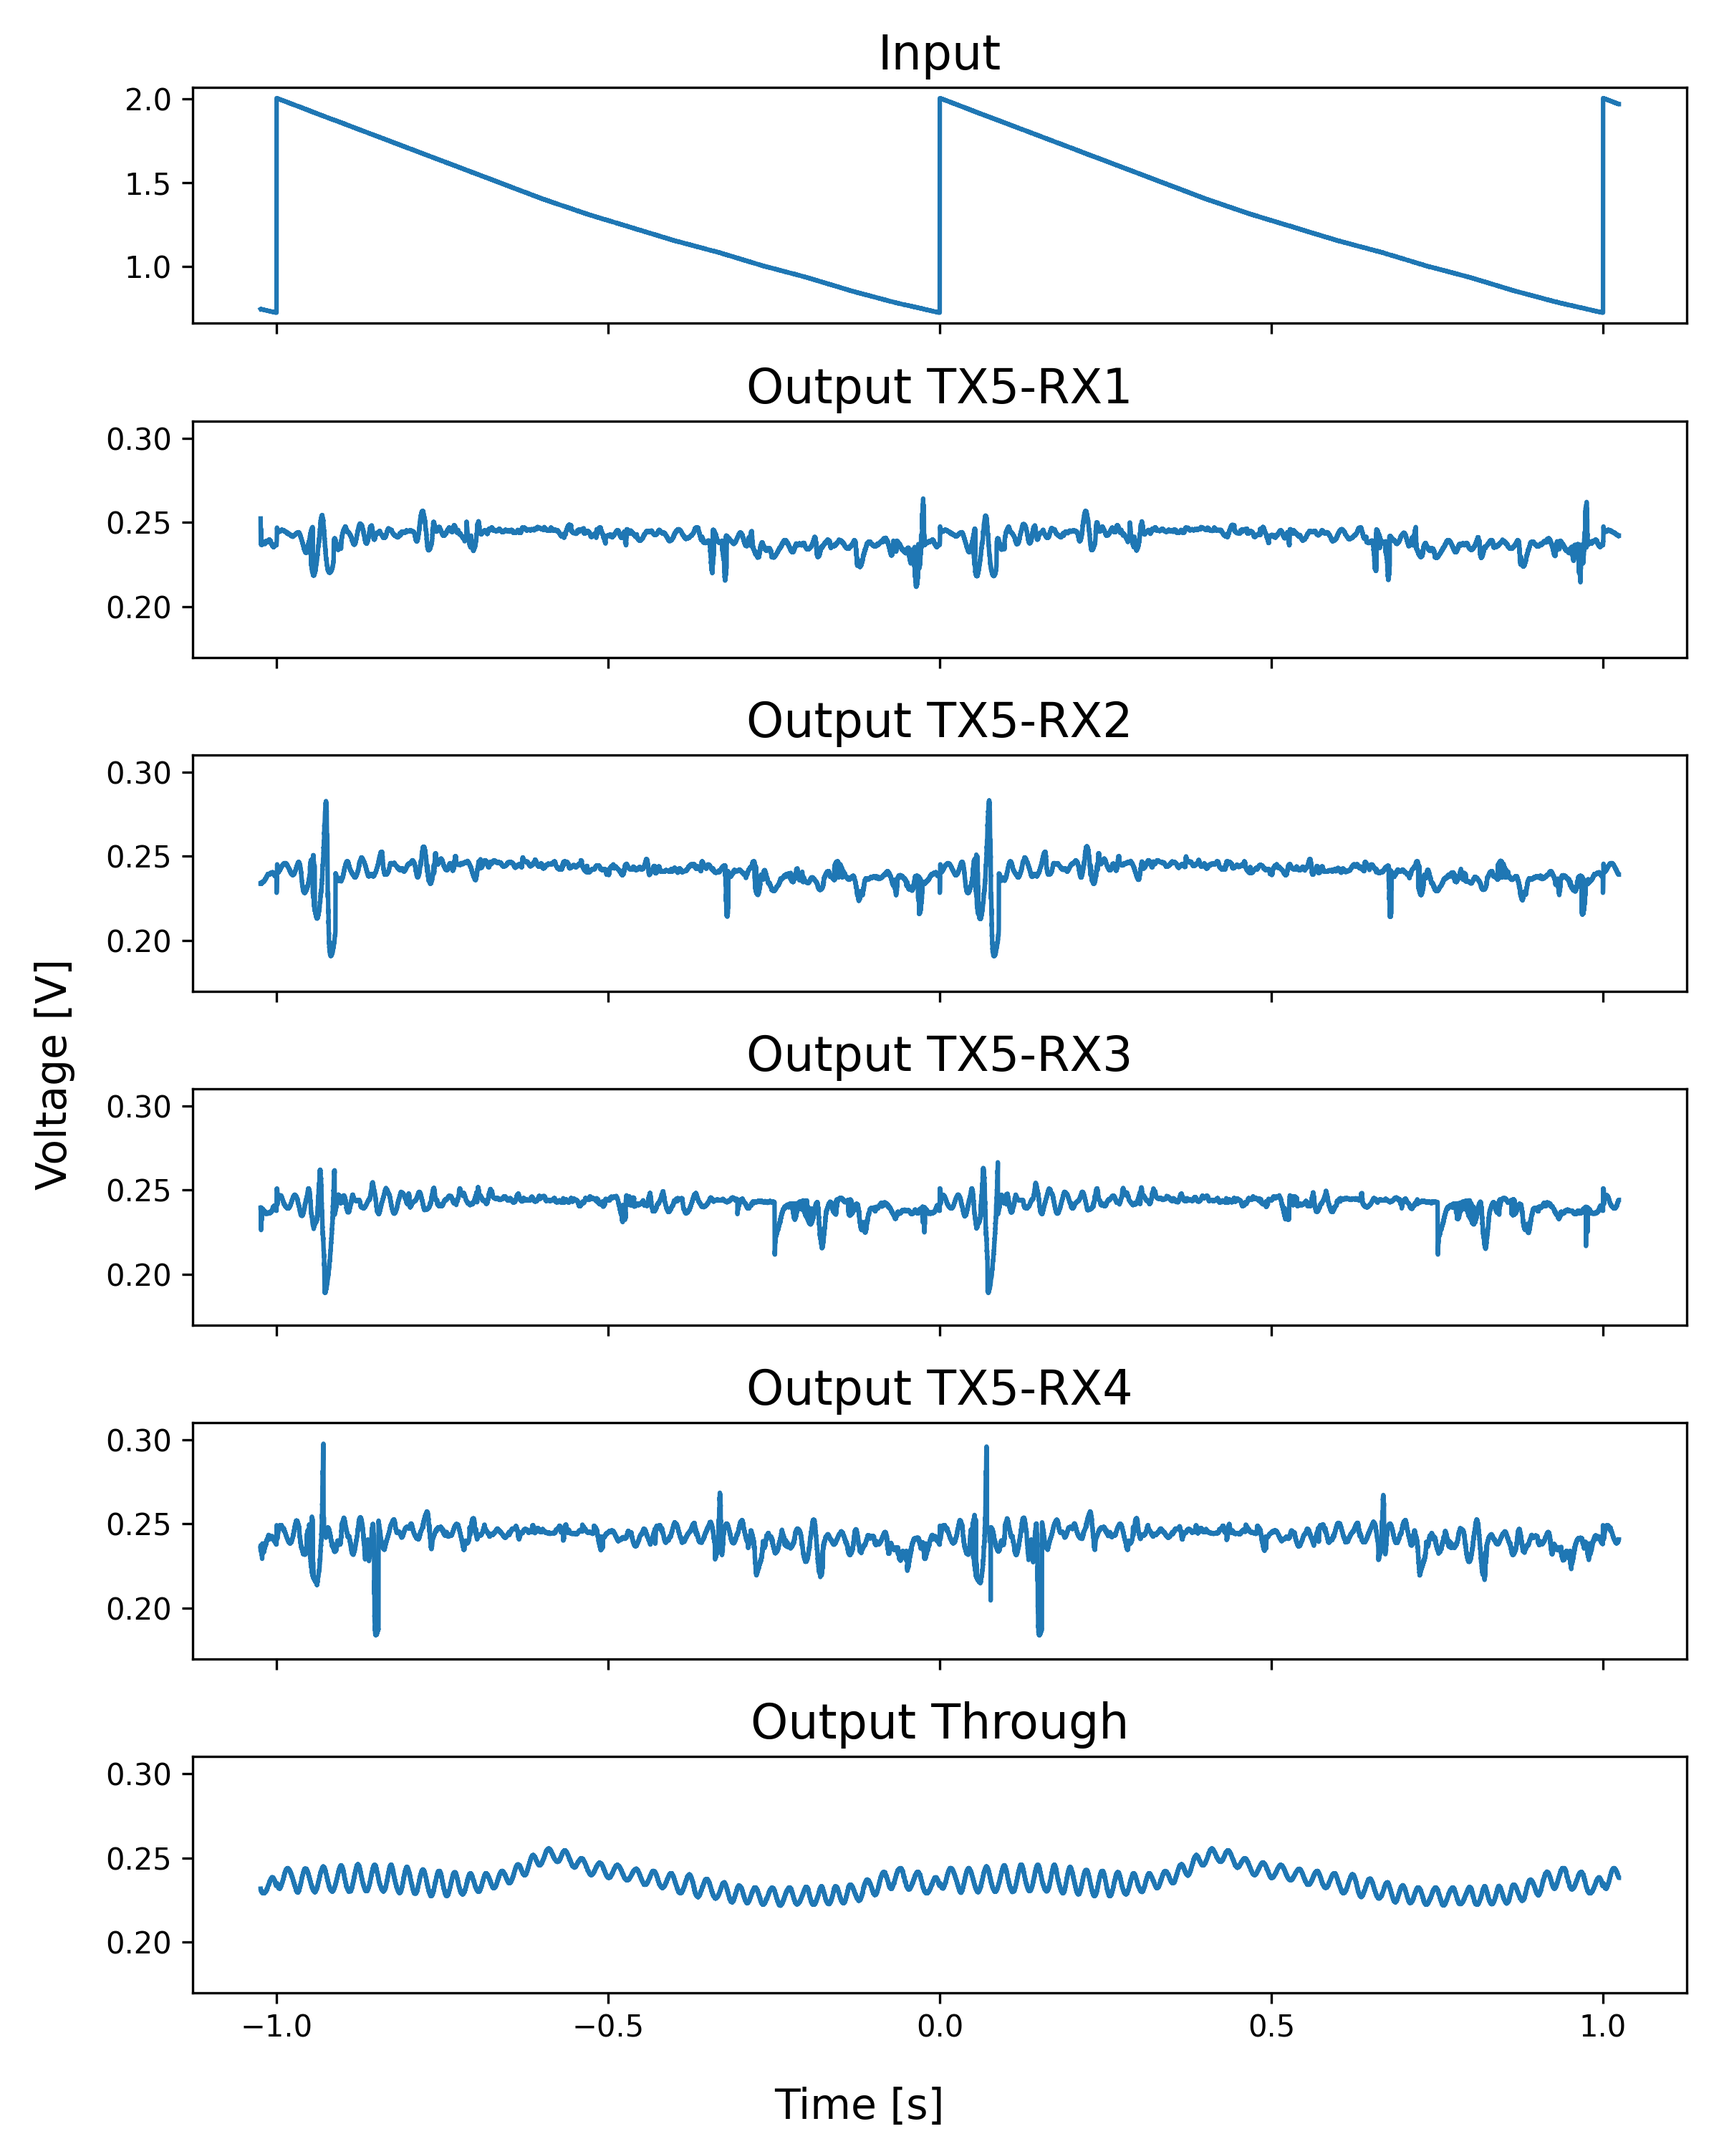
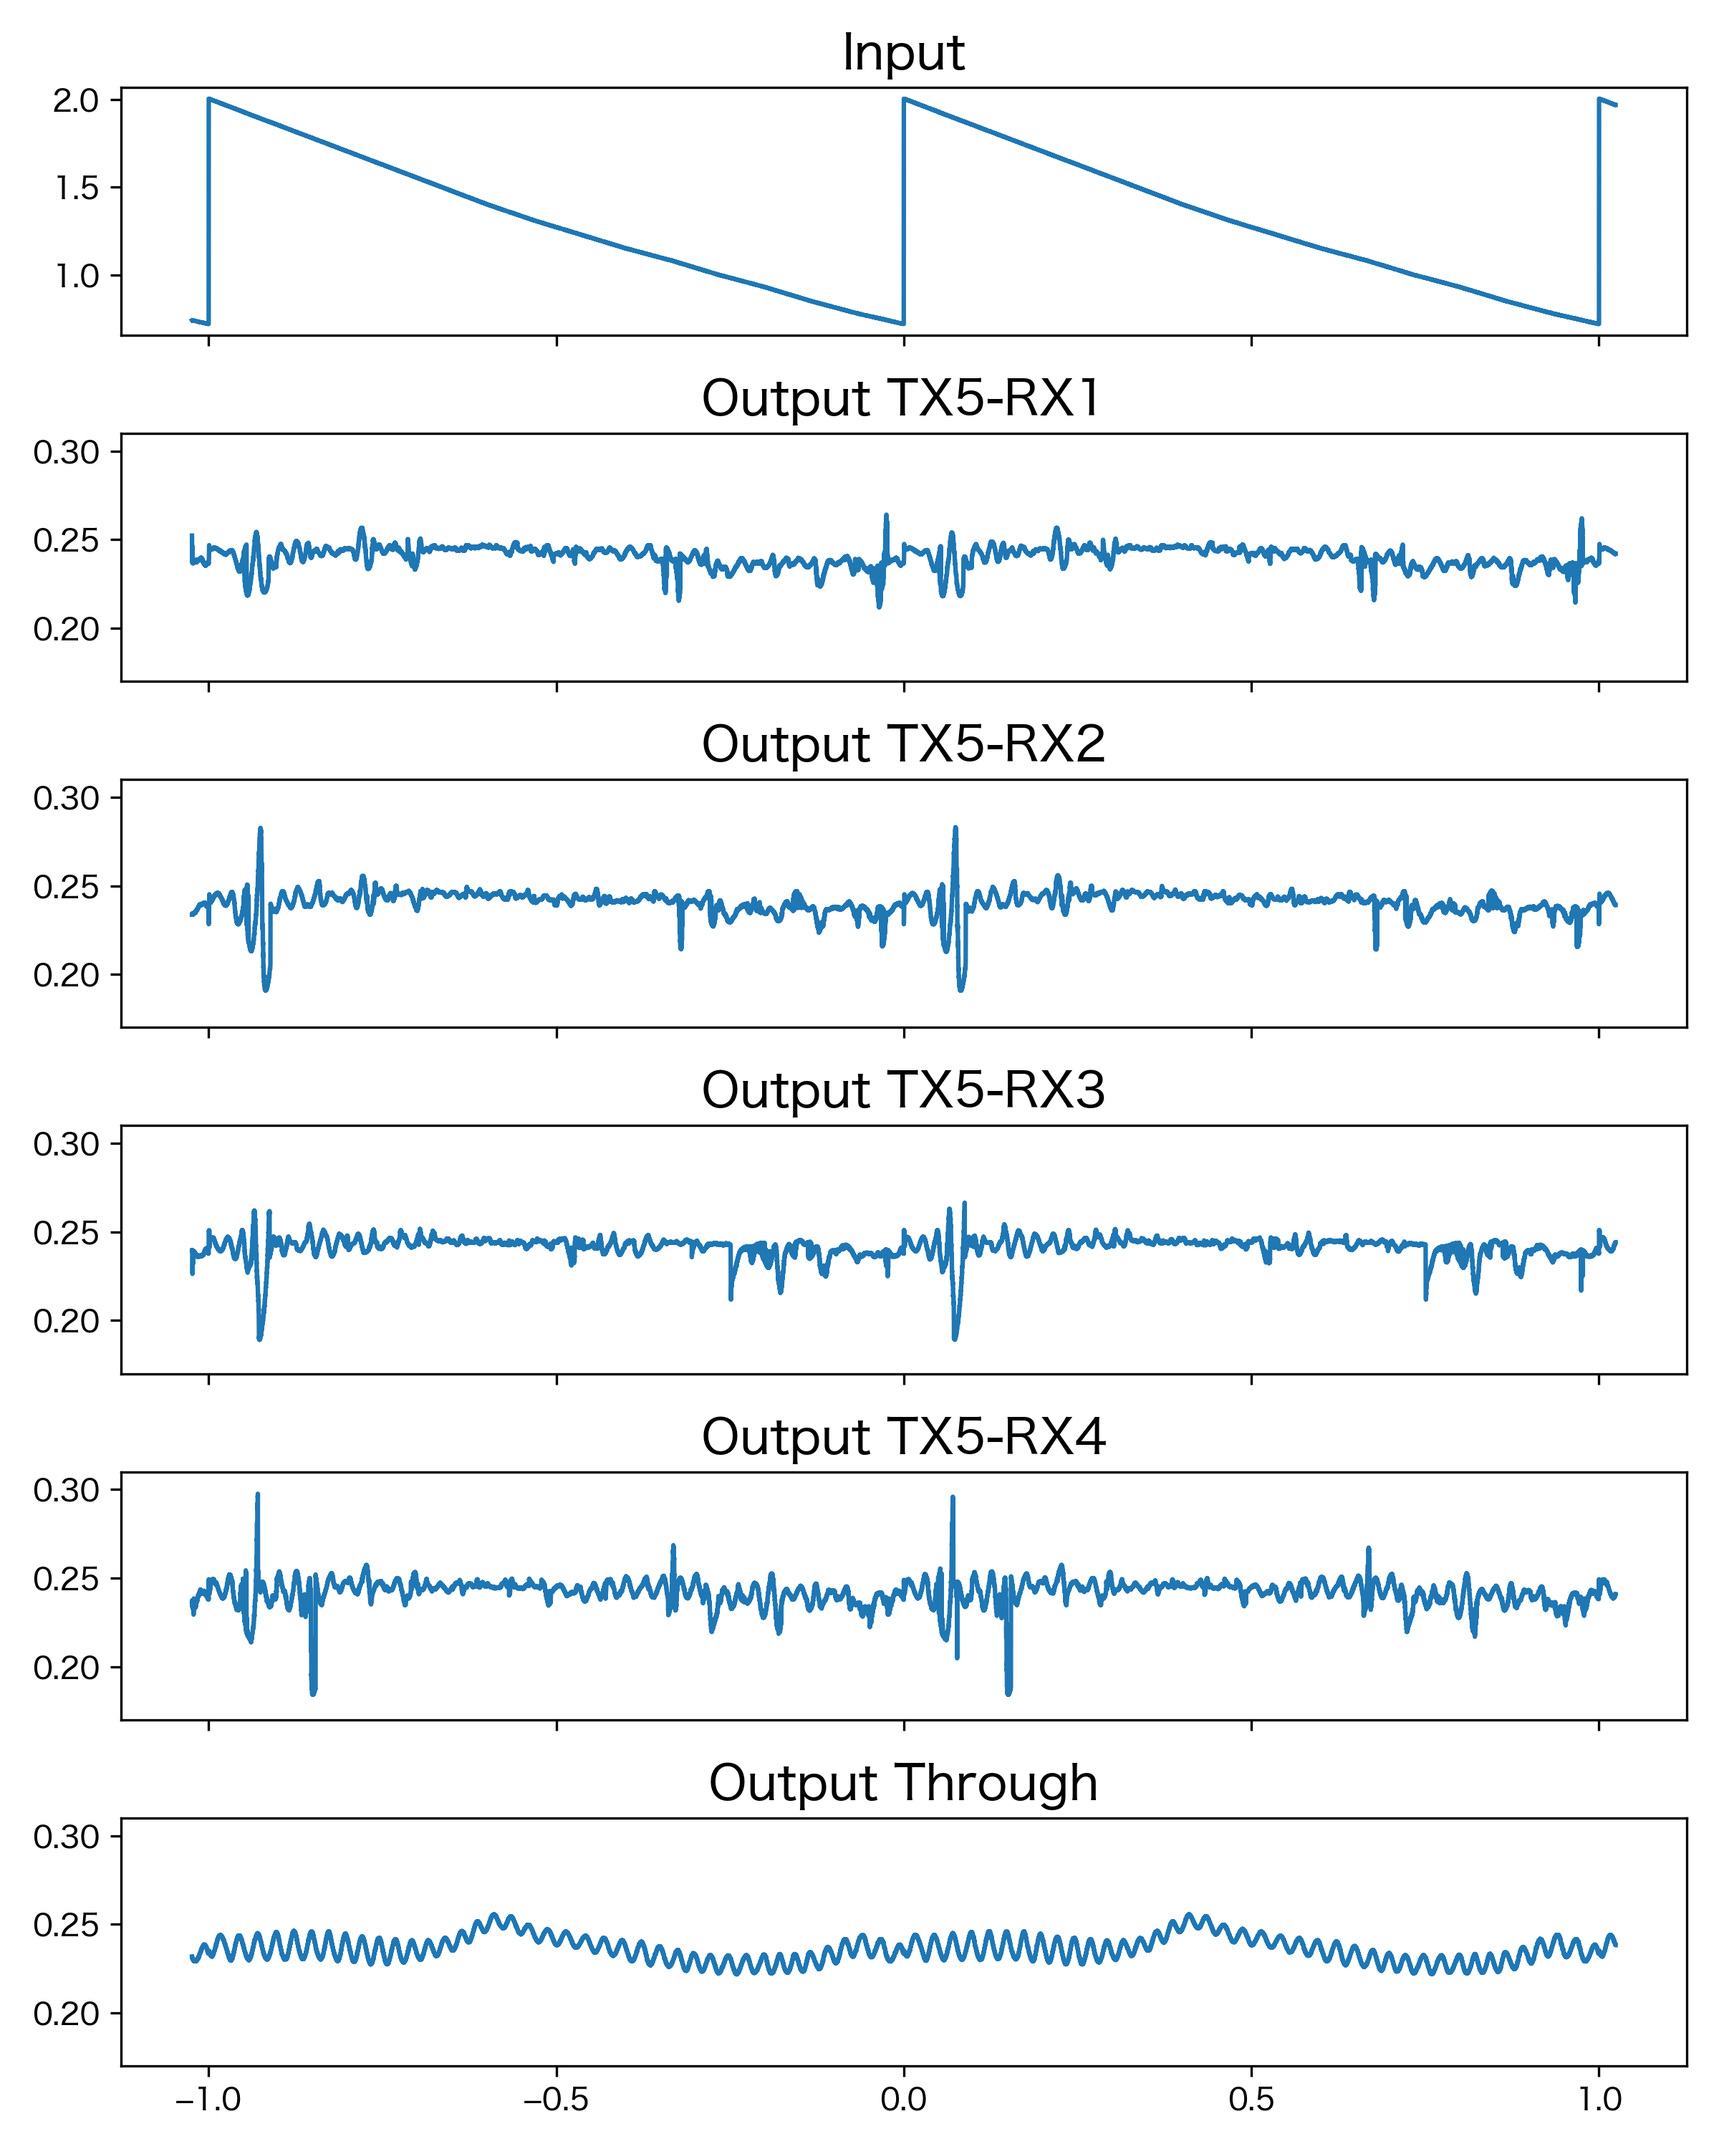
わかんねえ

diff --git a/make_Ascan.py b/make_Ascan.py
@@ -1,0 +1,98 @@
+import matplotlib.pyplot as plt
+import numpy as np
+import pandas as pd
+import scipy.fftpack as fft
+plt.rcParams['agg.path.chunksize'] = 10000
+
+# Read csv data
+data_51 = pd.read_csv('TX5-RX1.csv', header=None, skiprows=19)
+Time = data_51[0] + 1 # Time [s]
+Input = data_51[1] # Voltage applied to VCO [V]
+# check index where Input get 2.00 for the first time
+index = np.where(Input >= 2.00)[0][0]
+t_lac = np.where(Input >= 2.00)[0][0] * (1 / len(Input)) # tau_lac [s]
+out_51 = np.array(data_51[2]) # IF output [V]
+
+# FFT
+fs = 16000 # sampling frequency [Hz]
+N = len(out_51) # data size
+#t = np.arange(0, N/fs, 1/fs)
+
+out_fft = fft.fft(out_51)
+Amp = np.abs(out_fft)
+Freq = fft.fftfreq(N, 1/fs)
+
+# calculate phase and check the time
+f_phase = np.angle(out_fft)
+f_phase = np.where(f_phase < 0, f_phase + 2 * np.pi, f_phase)
+
+# calculate time
+sweep_rate = 0.9e9 / 1 # [Hz/s]
+#tau = np.sqrt(f_phase / (2 * np.pi * sweep_rate)) # [s]
+#plt.plot(tau, f_phase)
+#plt.show()
+
+
+# make t-phase data
+t_phase = fft.ifft(f_phase)
+t_phase = np.where(t_phase < 0, t_phase + 2 * np.pi, t_phase)
+t_phase = np.real(t_phase)
+
+# calculate delay time
+#tau = t_phase / (2 * np.pi * sweep_rate * Time) # [s]
+tau = t_phase / (2 * np.pi) \
+    / (sweep_rate * Time - sweep_rate * t_lac + 0.3e9) # [s]
+print(len(tau))
+
+
+#print(len(tau))
+#print(tau)
+#t_phase = np.real(t_phase)
+
+#plt.plot(Time, t_phase)
+#plt.plot(t_phase, out_51)
+#plt.plot(tau, t_phase)
+plt.plot(tau, out_51)
+#plt.xscale('log')
+plt.show()
+
+
+
+
+
+
+
+#plt.plot(Freq[1:int(N/2)], np.abs(Amp[1:int(N/2)]))
+def plt_Freq_data():
+    fig, ax = plt.subplots(3, 1, tight_layout=True, figsize=(8, 6), sharex='none')
+    ax[0].plot(Freq[1:int(N/2)], Amp[1:int(N/2)])
+    ax[0].set_xlabel('Frequency [Hz]', size = 14)
+    ax[0].set_ylabel('Amplitude', size = 14)
+    ax[0].set_xscale('log')
+
+    ax[1].plot(Freq[1:int(N/2)], f_phase[1:int(N/2)])
+    ax[1].set_xlabel('Frequency [Hz]', size = 14)
+    ax[1].set_ylabel('Phase', size = 14)
+    ax[1].set_xscale('log')
+
+    ax[2].plot(Freq[1:int(N/2)], t_phase[1:int(N/2)])
+    ax[2].set_xlabel('Frequency [Hz]', size = 14)
+    ax[2].set_ylabel('Time [s]', size = 14)
+    ax[2].set_xscale('log')
+
+    plt.show()
+#plt_Freq_data()
+
+
+def plt_time_data():
+    fig, ax = plt.subplots(2, 1, tight_layout=True, figsize=(8, 6), sharex='none')
+    ax[0].plot(Time, out_51)
+    ax[0].set_ylabel('Amplitude', size = 14)
+
+    ax[1].plot(Time, t_phase)
+    ax[1].set_ylabel('Phase', size = 14)
+    ax[1].set_xscale('log')
+
+    plt.xlabel('Time [s]')
+    plt.show()
+#plt_time_data()

diff --git a/calc_corr.py b/calc_corr.py
@@ -40,7 +40,6 @@ for i in tqdm(range(len(V_RMS))):
         delay_time_52 = np.int(np.sqrt(t**2 + (L_52 / v)**2) / delta_t)
         delay_time_53 = np.int(np.sqrt(t**2 + (L_53 / v)**2) / delta_t)
         delay_time_54 = np.int(np.sqrt(t**2 + (L_54 / v)**2) / delta_t)
-        print(delay_time_51, delay_time_52, delay_time_53, delay_time_54)
 
         outvalue_51 = out_51[delay_time_51]
         outvalue_52 = out_52[delay_time_52]

diff --git a/read_csv.py b/read_csv.py
@@ -78,8 +78,8 @@ def all_file():
     ax[5].set_ylim(0.17, 0.31)
 
 
-    fig.supxlabel('Time [s]', size = 14)
-    fig.supylabel('Voltage [V]', size = 14)
+    #fig.supxlabel('Time [s]', size = 14)
+    #fig.supylabel('Voltage [V]', size = 14)
 
 
     plt.savefig('tV_plot/all.png', dpi=300)
